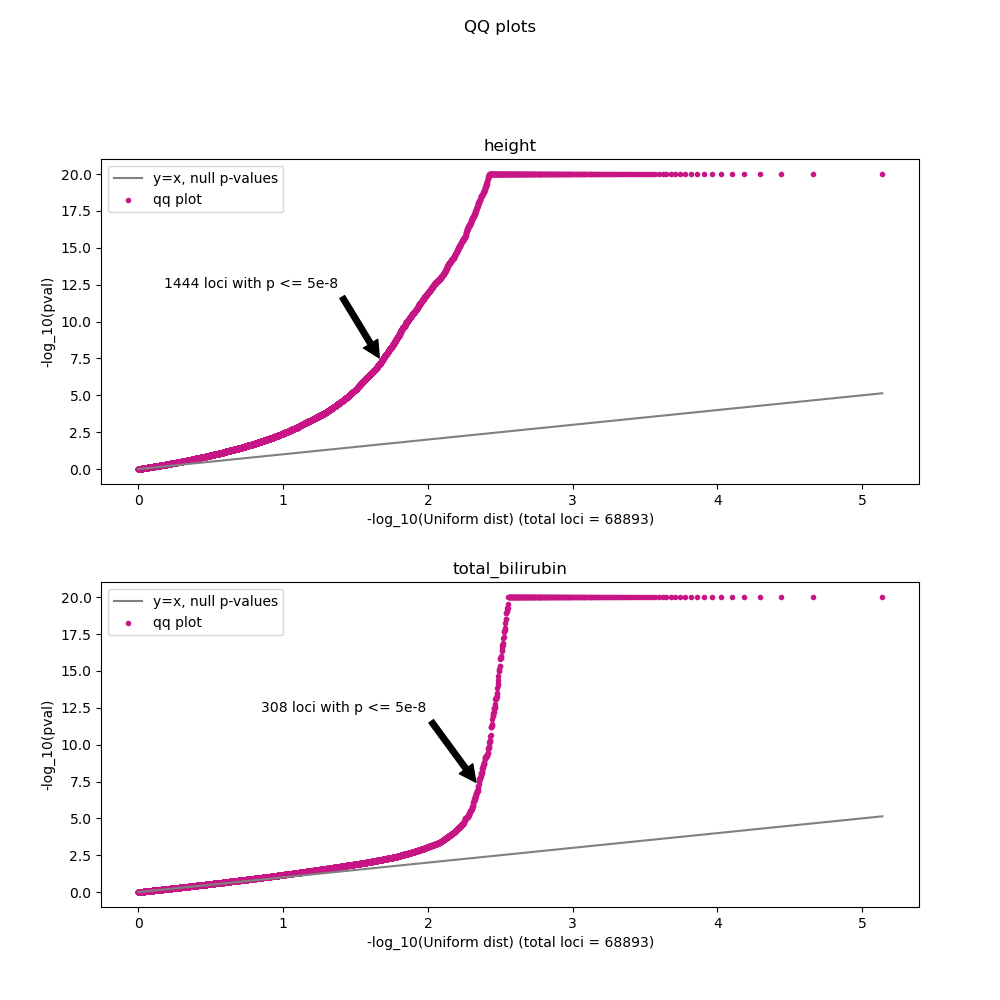
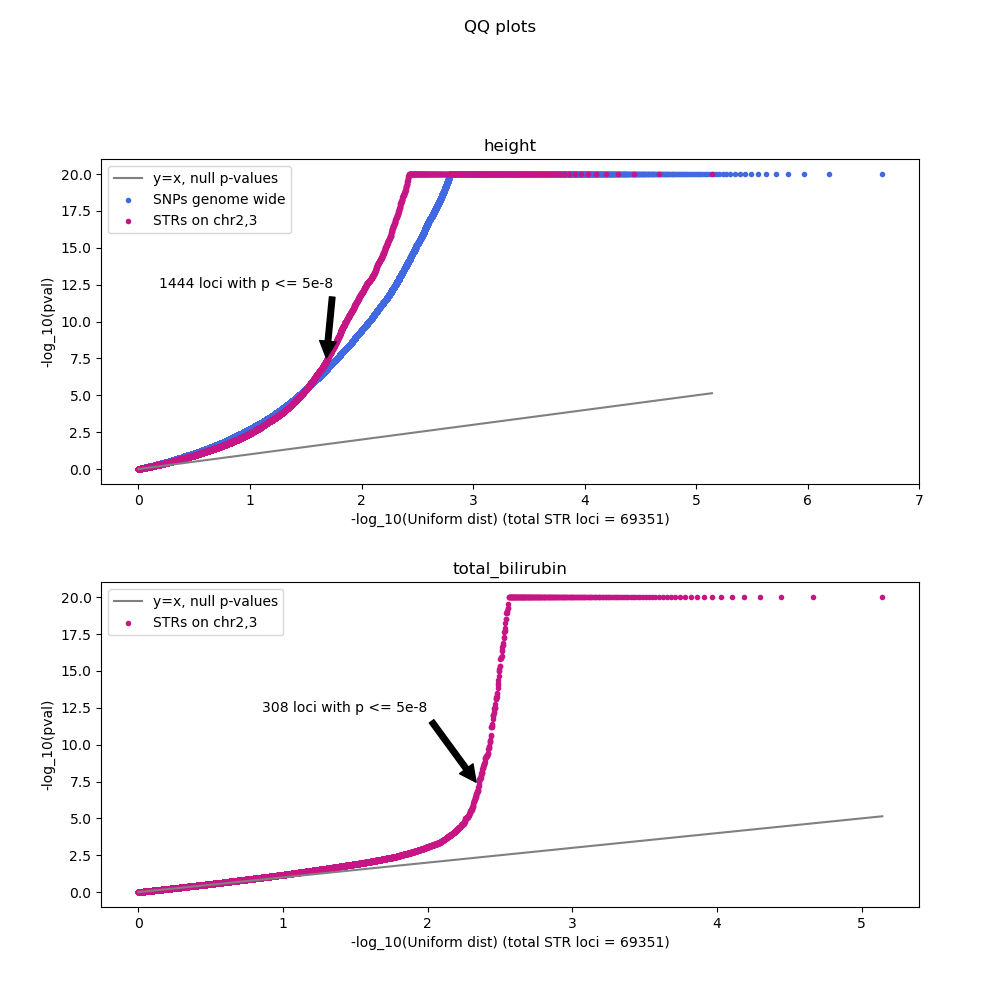
Add SNP summary statistics into height qq plot

diff --git a/association/make_plots.py b/association/make_plots.py
@@ -8,7 +8,29 @@ import numpy as np
 
 ukb = os.environ['UKB']
 GENOME_WIDE_SIG = 5e-8
+HEIGHT_CUTOFF = 20
 
+def plot_height_snp_qq(ax):
+    snp_summary_stats = np.loadtxt(
+        (f"{ukb}/misc_data/snp_summary_stats/height/"
+         "Meta-analysis_Locke_et_al+UKBiobank_2018_UPDATED.txt"),
+        skiprows=1,
+        usecols=(8)
+    ).reshape(-1)
+    snp_summary_stats[snp_summary_stats == 0] = \
+            min(snp_summary_stats[snp_summary_stats != 0])
+    snp_summary_stats.sort()
+    trans_data = -np.log10(snp_summary_stats)
+    trans_data[trans_data > HEIGHT_CUTOFF] = HEIGHT_CUTOFF
+    uniform = (np.arange(len(trans_data)) + 0.5)/len(trans_data)
+    trans_uniform = -np.log10(uniform)
+    ax.scatter(
+        trans_uniform,
+        trans_data,
+        color=colors['royalblue'],
+        marker='.',
+        label="SNPs genome wide"
+    )
 
 def main():
     parser = argparse.ArgumentParser()
@@ -20,8 +42,6 @@ def main():
         skiprows=1,
         usecols=(0, 1, 4, 6, 8, 10)
     )
-    chroms = results[:, 0]
-    pos = results[:, 1]
     pvals = {}
     pvals['height'] = results[:, 2]
     pvals['total_bilirubin'] = results[:, 3]
@@ -45,10 +65,12 @@ def main():
         data[data == 0] = min(data[data != 0])
         data.sort()
         trans_data = -np.log10(data)
-        trans_data[trans_data > 20] = 20
+        trans_data[trans_data > HEIGHT_CUTOFF] = HEIGHT_CUTOFF
         ax.set_title(f'{phenotype}')
         ax.set_ylabel('-log_10(pval)')
-        ax.set_xlabel(f'-log_10(Uniform dist) (total loci = {nresults})')
+        ax.set_xlabel(f'-log_10(Uniform dist) (total STR loci = {nresults})')
+        if phenotype == 'height':
+            plot_height_snp_qq(ax)
         ax.plot(
             trans_uniform,
             trans_uniform,
@@ -68,7 +90,7 @@ def main():
             trans_data,
             color=colors['mediumvioletred'],
             marker='.',
-            label="qq plot"
+            label="STRs on chr2,3"
         )
 
         crosses_gws = np.argmin(data < GENOME_WIDE_SIG)
@@ -81,7 +103,7 @@ def main():
             xytext=(xy[0]-1.5, xy[1]+5),
             arrowprops=dict(facecolor='black', shrink=0.05),
         )
-                    
+
         ax.legend()
 
         plt_count += 1
@@ -91,3 +113,4 @@ def main():
 
 if __name__ == "__main__":
     main()
+
